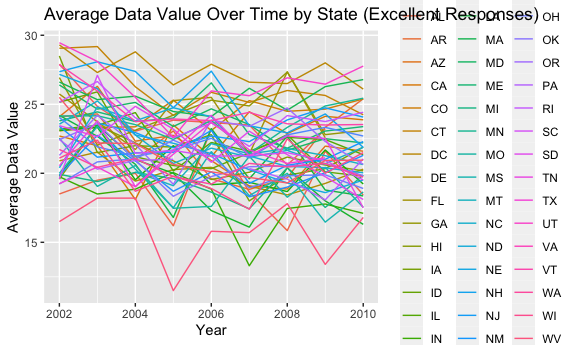
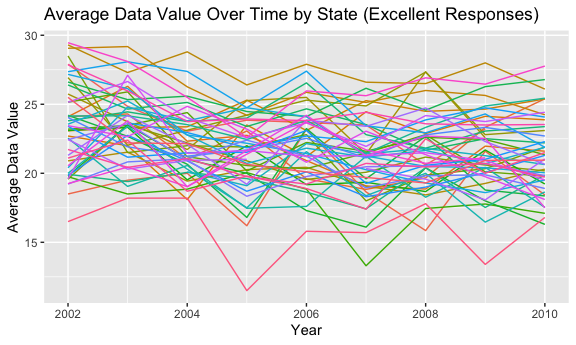
comments all part and corrected all plots

diff --git a/p8105_hw3_lz2949.md b/p8105_hw3_lz2949.md
@@ -179,9 +179,7 @@ states_ten = states_ten |>
 Comments: In 2002, there are 6 states observed at 7 or more locations,
 they are ; in 2010, the number is 14, they are .
 
-Construct a dataset that is limited to Excellent responses and contains,
-year, state, and a variable averages the data_value across locations
-within a state. Make a spaghetti plot.
+I dropped the legend to make the plot easier to intepret.
 
 ``` r
 exc_df = ordered_brfss |>
@@ -194,7 +192,7 @@ ggplot(exc_df, aes(x = year,
                   y = ave_data,
                   group = state_name, 
                   color = state_name)) +
-  geom_line() +
+  geom_line(show.legend = FALSE) +
   labs(
     title = "Average Data Value Over Time by State (Excellent Responses)",
     x = "Year",
@@ -205,7 +203,8 @@ ggplot(exc_df, aes(x = year,
     ## Warning: Removed 65 rows containing missing values (`geom_line()`).
 
 <img src="p8105_hw3_lz2949_files/figure-gfm/unnamed-chunk-10-1.png" width="90%" />
-Comments: drop the legend, general trend
+Comments: The plot has the general trend of lowering average data value
+over time.
 
 Make a two-panel plot showing, for 2006/2010, distribution of data_value
 for responses (poor to excellent) among locations in NY state.
@@ -217,6 +216,7 @@ ny_df = ordered_brfss |>
 ny_df$year = as.character(ny_df$year)
 ggplot(ny_df, aes(x = fct_inorder(response), y = data_value, fill = year)) + 
   geom_boxplot() +
+  facet_grid(.~year)+
   labs(
     title = "Distribution or Response by Year", 
     x = "Response", 
@@ -361,8 +361,8 @@ day_activity = m_nhanes |>
 day_activity$activity_minutes = as.numeric(gsub("min", "", day_activity$activity_minutes)) # remove "min" in the xlabel, and convert it to dbl
 
 ggplot(day_activity, aes(x=activity_minutes, y = activity, color = sex))+
-  geom_point(alpha = 0.1) +
-  geom_smooth(se = FALSE) +
+  geom_point(alpha = 0.05) +
+  geom_smooth(se = FALSE, alpha = 0.7) +
   facet_grid(.~ education) +
   labs(
     title = "plot of 24hrs activity",
@@ -378,4 +378,8 @@ ggplot(day_activity, aes(x=activity_minutes, y = activity, color = sex))+
     ## `geom_smooth()` using method = 'gam' and formula = 'y ~ s(x, bs = "cs")'
 
 <img src="p8105_hw3_lz2949_files/figure-gfm/unnamed-chunk-16-1.png" width="90%" />
-Comments:
+Comments: From these plots, females and males at each education level
+has similar activity trend in the day. People are most active in the
+morning and afternoon. From the trend line, females are more active than
+males when they have education at “high school equivalent” or “more than
+high school”.
